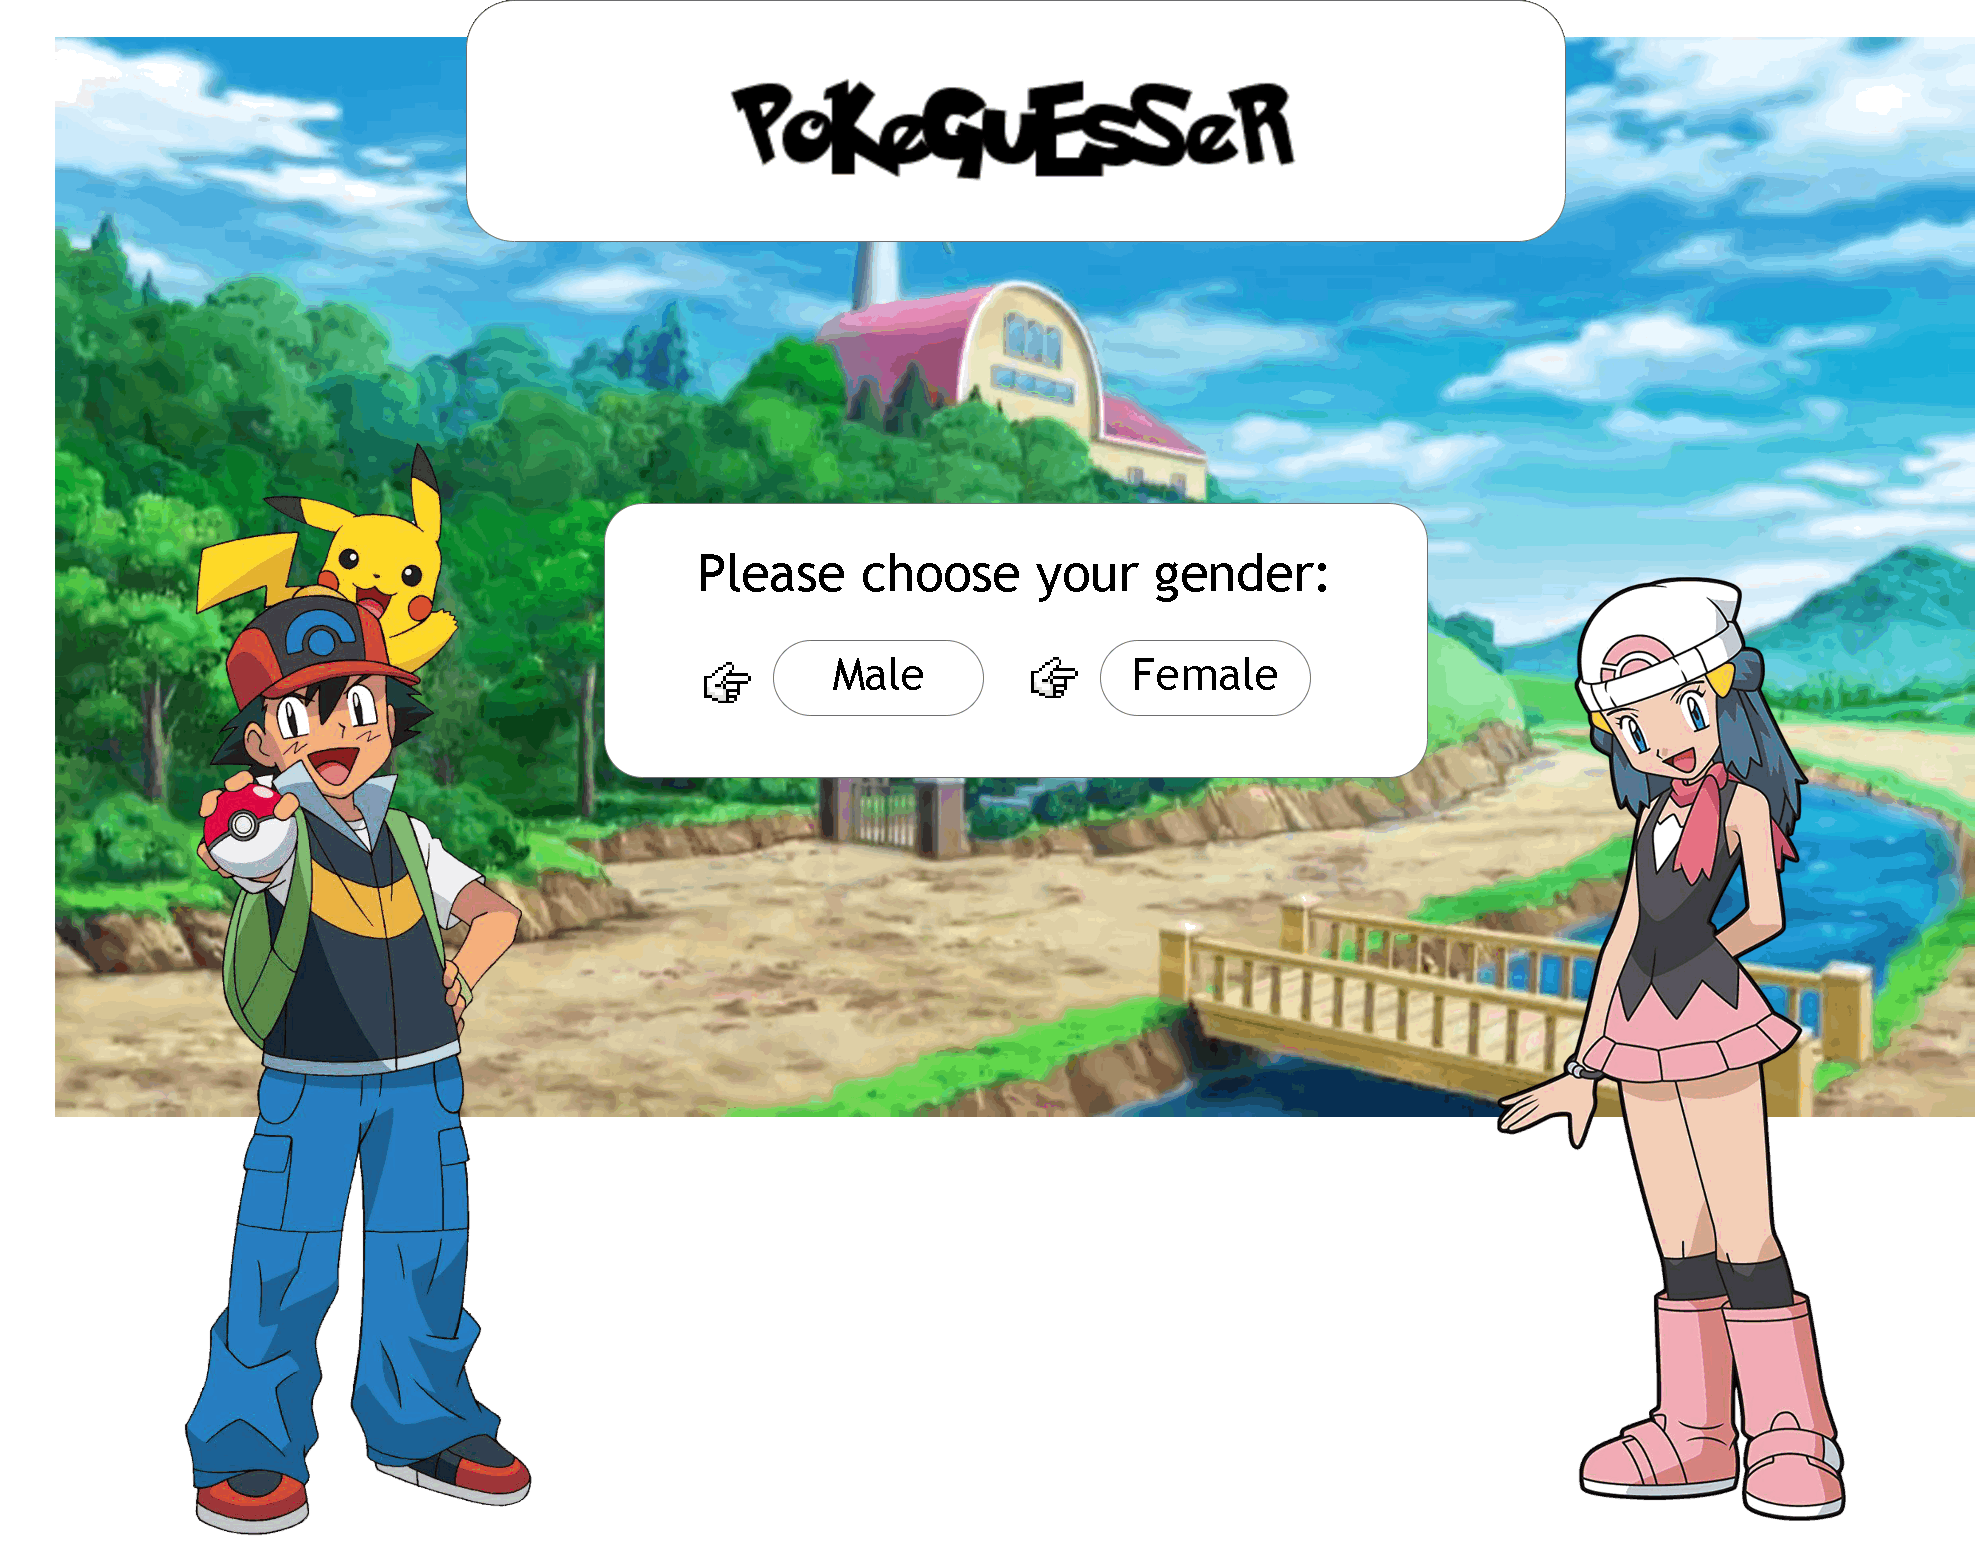
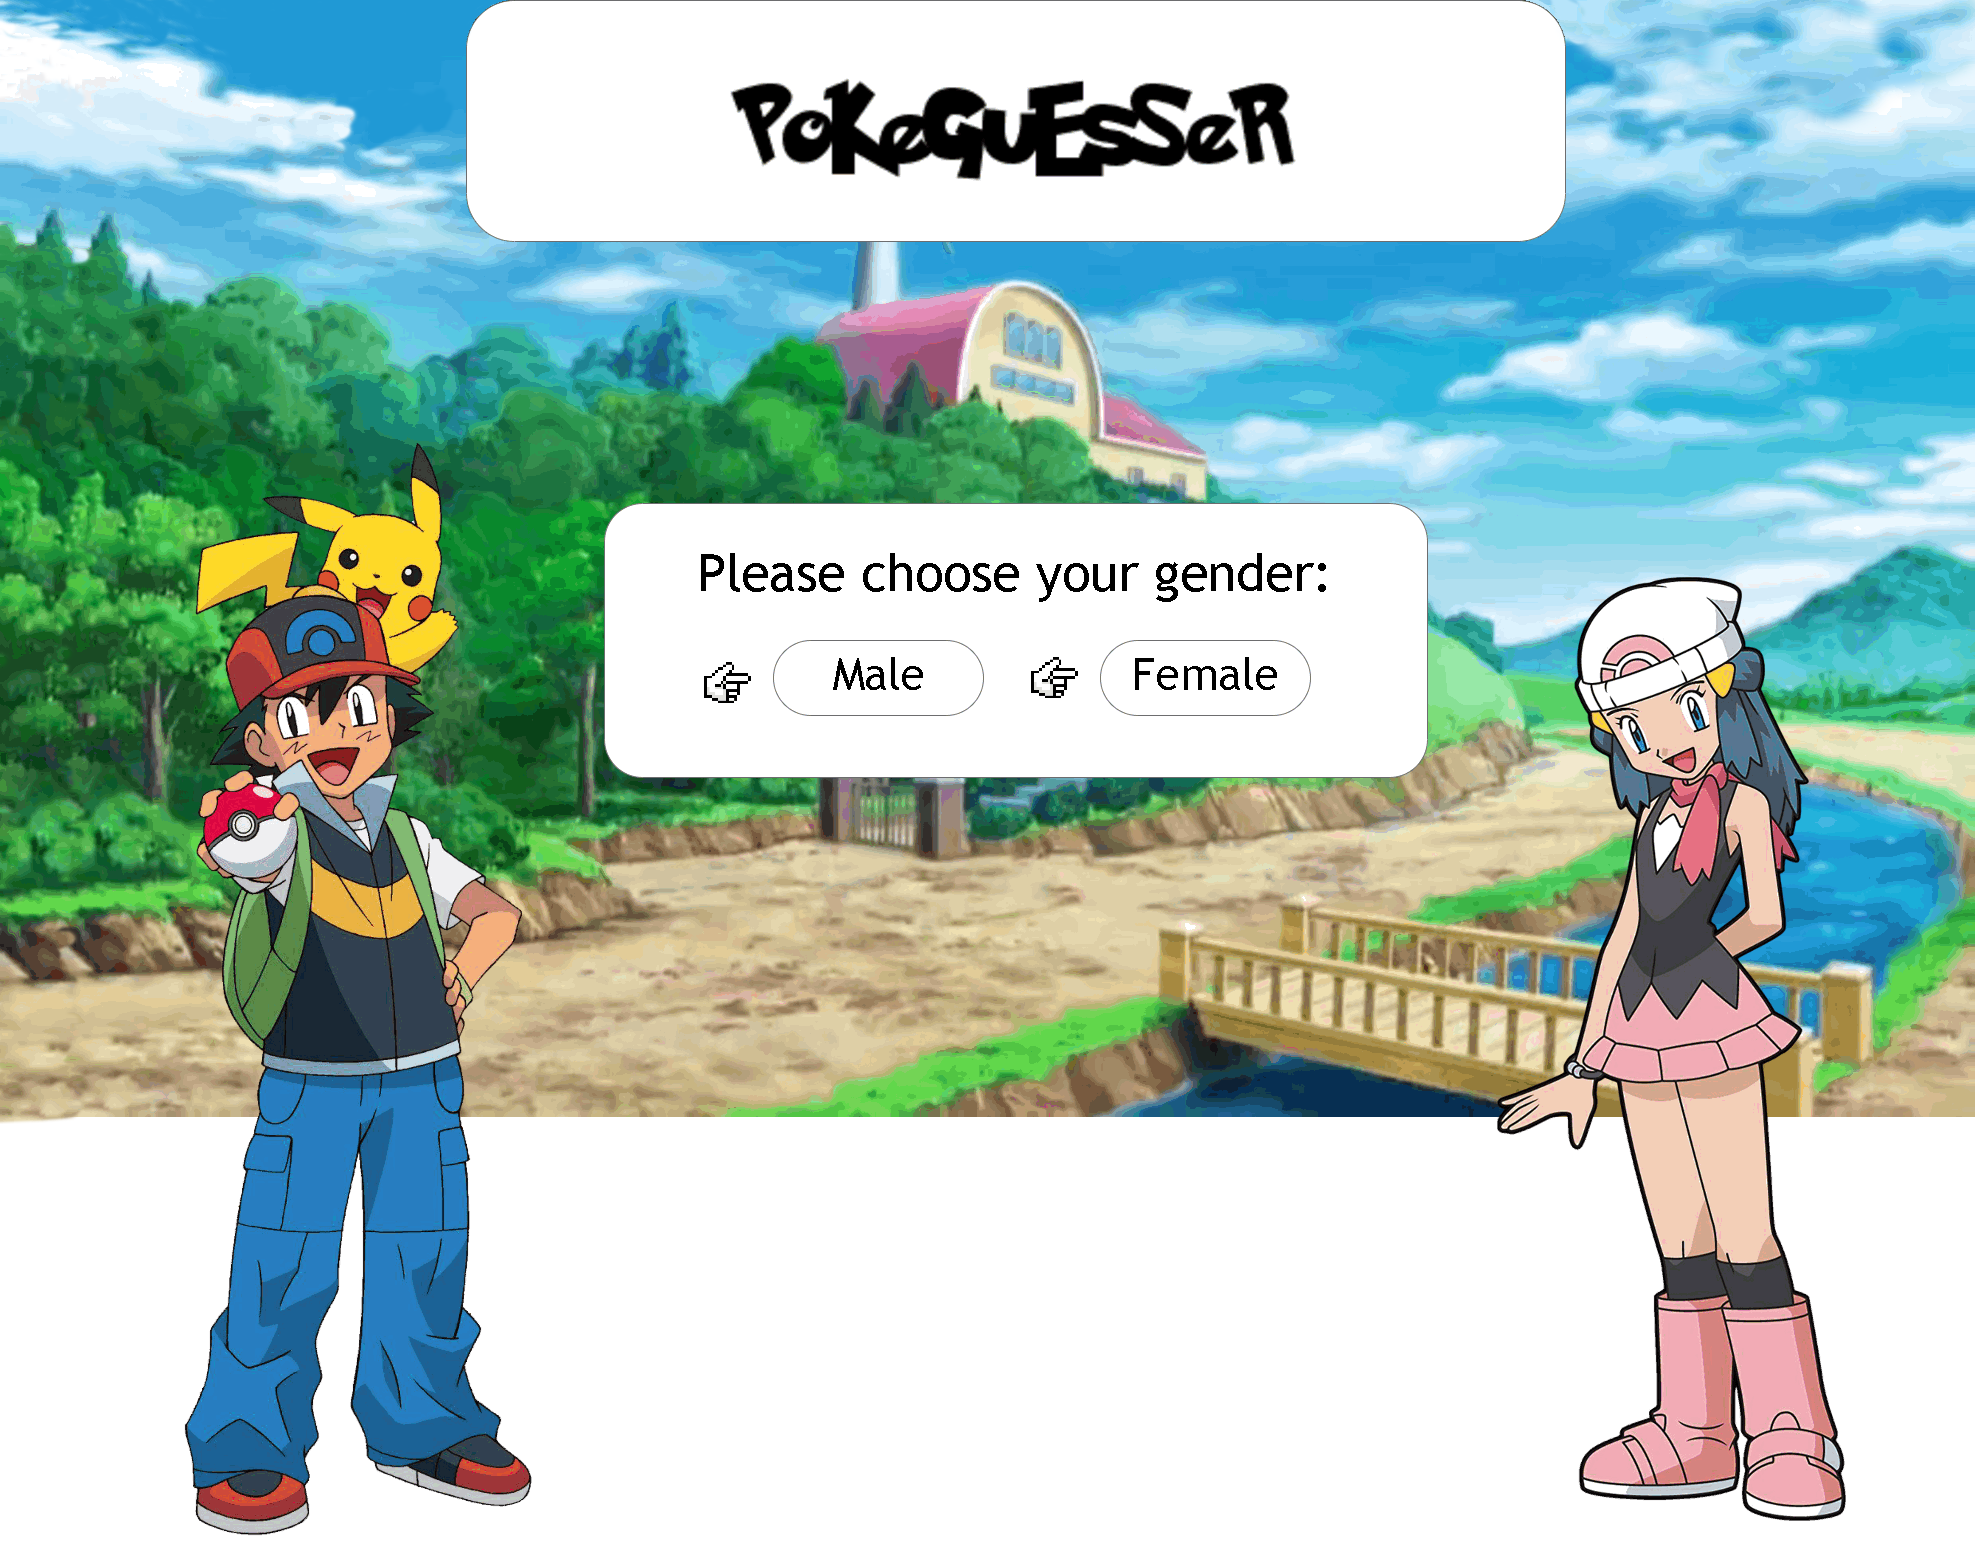
Fix page overflows

diff --git a/finish.html b/finish.html
@@ -24,19 +24,19 @@
             />
       </head>
 
-      <body id="bodyId" style="height: 950px; width: 1800px; background-color: black">
+      <body id="bodyId" style="height: 1000px; width: 2000px; background-color: black">
             <div
                   style="
-                        height: 950px;
-                        width: 1800px;
-                        background-image: url('assets/images/FinishTemplate.png');
+                        height: 1000px;
+                        width: 1900px;
+                        background-image: url('assets/images/FinishTemplate1.png');
                   "
             ></div>
             <div class="pokemon">
                   <img id="pokemon-image" src="" />
             </div>
             <div class="human">
-                  <img id="human-image" height="1000" src="" />
+                  <img id="human-image" height="1200" src="" />
             </div>
             <div class="numberOfPokemons">
                   <label id="numberOfPokemons" style="font-size: 40px">0</label>

diff --git a/loading.html b/loading.html
@@ -15,18 +15,21 @@
       </head>
 
       <style>
+            body{
+                  overflow:hidden;
+            }
             div.loadingSpin {
-                position: absolute;
-                top: 403px;
-                left: 830px;
+                  position: absolute;
+                  top: 400px;
+                  left: 900px;
             }
       </style>
 
-      <body style="height: 950px; width: 1800px; background-color: black">
+      <body style="height: 1000px; width: 2000px; background-color: black">
             <div
                   style="
-                        height: 950px;
-                        width: 1800px;
+                        height: 1000px;
+                        width: 2000px;
                         background-image: url('assets/images/loadingAnimation.png');
                   "
             ></div>

diff --git a/battlemale.html b/battlemale.html
@@ -25,7 +25,7 @@
       </head>
 
       
-      <body style="height: 950px; width: 1800px; background-color: black">
+      <body style="height: 950px; width: 2000px; background-color: black">
 
             <!-- Music not autoplaying for Chrome because of Chrome policy -->
             <audio autoplay muted>
@@ -34,9 +34,9 @@
 
             <div
                   style="
-                        height: 950px;
-                        width: 1800px;
-                        background-image: url('assets/images/BattleMale.png');
+                        height: 1000px;
+                        width: 2000px;
+                        background-image: url('assets/images/BattleMale1.png');
                   "
             ></div>
             <div class="pokemon">

diff --git a/gender.html b/gender.html
@@ -15,6 +15,9 @@
       </head>
 
       <style>
+            body{
+                  overflow: hidden;
+            }
             div.male {
                 position: absolute;
                 top: 635px;
@@ -30,9 +33,9 @@
       <body style="height: 950px; width: 1800px; background-color: black">
             <div
                   style="
-                        height: 950px;
-                        width: 1800px;
-                        background-image: url('assets/images/Gender.png');
+                        height: 1000px;
+                        width: 2000px;
+                        background-image: url('assets/images/Gender1.png');
                   "
             ></div>
             <div class="male">

diff --git a/index.html b/index.html
@@ -15,6 +15,9 @@
       </head>
 
       <style>
+      body{
+            overflow:hidden;
+      }
       div.absoluteTb {
             position: absolute;
             top: 693px;
@@ -34,9 +37,9 @@
       <body style="height: 950px; width: 1800px; background-color: black">
             <div
                   style="
-                        height: 950px;
-                        width: 1800px;
-                        background-image: url('assets/images/CompositeLayer.png');
+                        height: 1000px;
+                        width: 2000px;
+                        background-image: url('assets/images/CompositeLayer1.png');
                   "
             ></div>
             <div class="absoluteTb">

diff --git a/battlefemale.html b/battlefemale.html
@@ -27,7 +27,7 @@
       </head>
       
       <!-- Optional theme -->
-      <body style="height: 950px; width: 1800px; background-color: black">
+      <body style="height: 1000px; width: 2000px; background-color: black">
 
             <!-- Music not autoplaying for chrome because of chrome policy -->
             <audio autoplay muted>
@@ -36,8 +36,8 @@
 
             <div
                   style="
-                        height: 950px;
-                        width: 1800px;
+                        height: 1000px;
+                        width: 2000px;
                         background-image: url('assets/images/BattleFemaleFixed.png');
                   "
             ></div>

diff --git a/assets/css/endgame.css b/assets/css/endgame.css
@@ -1,3 +1,7 @@
+body {
+    overflow: hidden; /* Hide scrollbars */
+}
+
 div.absoluteTb {
     position: absolute;
     top: 845px;
@@ -15,7 +19,7 @@ div.pokemon {
 }
 div.human {
     position: absolute;
-    top: 120px;
+    top: 300px;
     left: 0px;
 }
 div.text1 {

diff --git a/assets/css/battleMale.css b/assets/css/battleMale.css
@@ -1,3 +1,7 @@
+body {
+    overflow: hidden; /* Hide scrollbars */
+}
+
 div.absoluteTb {
     position: absolute;
     top: 845px;

diff --git a/assets/css/battleFemale.css b/assets/css/battleFemale.css
@@ -1,3 +1,6 @@
+body {
+    overflow: hidden; /* Hide scrollbars */
+}
 div.absoluteTb {
     position: absolute;
     top: 832px;
